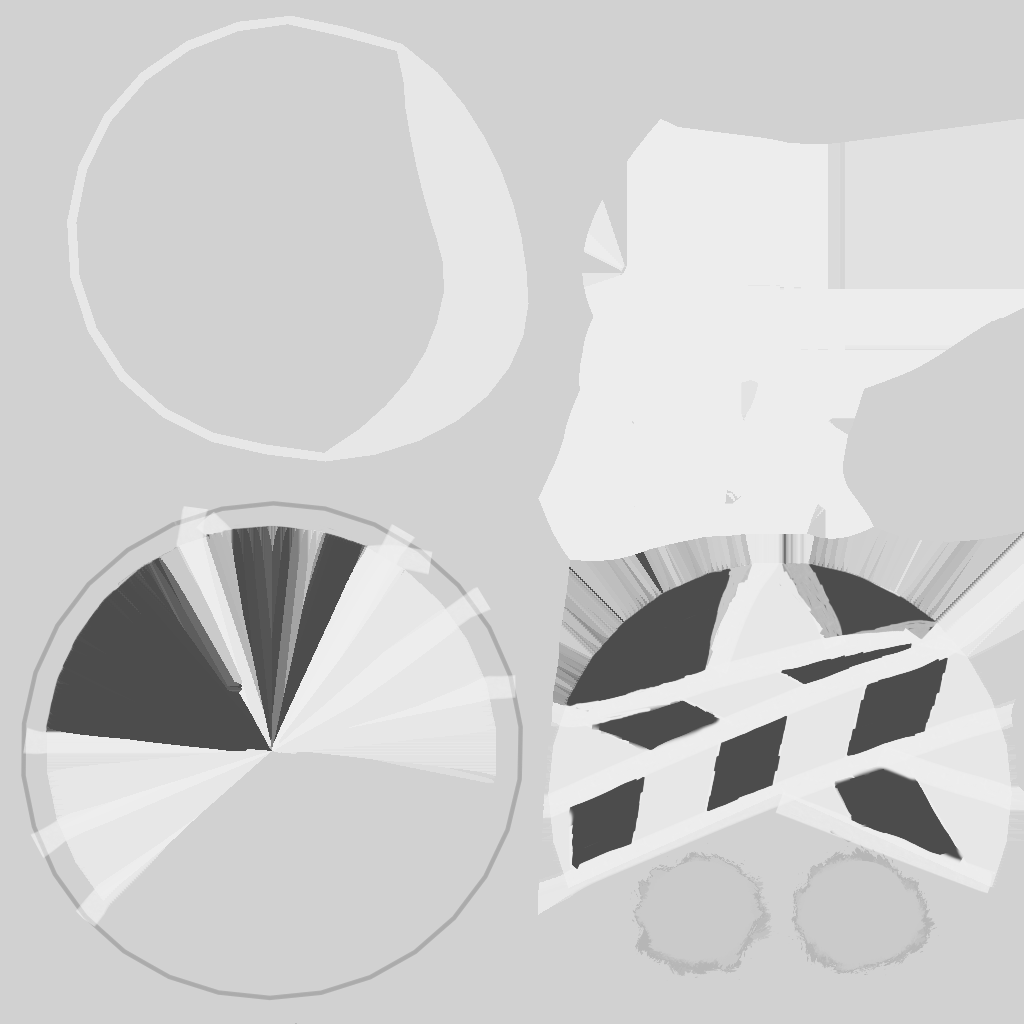
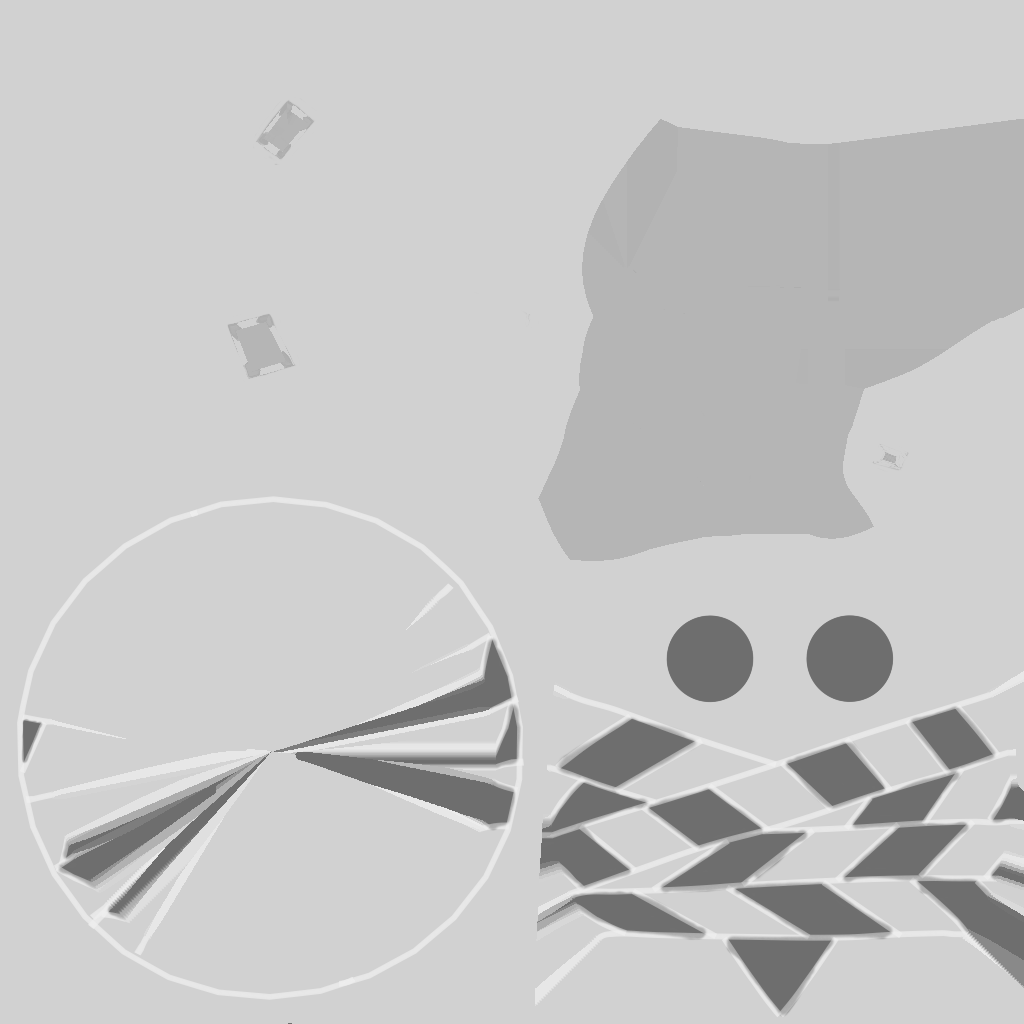
Bot maps updated new script added to manage bot materials
- Blue, red, green and yellow bot maps updated with new material
- New script added that checks the player and there position and then assigns appropriate bot mat to that position

diff --git a/Assets/botMaterialGet.cs b/Assets/botMaterialGet.cs
@@ -1,0 +1,36 @@
+using System.Collections;
+using System.Collections.Generic;
+using UnityEngine;
+
+public class botMaterialGet : MonoBehaviour
+{
+    private Client thisClient;
+    private MeshRenderer thisMeshRenderer;
+    private int listPos = 0;
+    // Start is called before the first frame update
+    void awake()
+    {
+        thisClient = GetComponentInParent<Client>();
+        thisMeshRenderer = GetComponent<MeshRenderer>();
+    }
+    void Start()
+    {
+        foreach(var client in GameManager.Instance.registeredClients)
+        {
+            if(client == thisClient)
+            {
+                thisMeshRenderer.materials = GameManager.Instance.BotMatRegistry(listPos);
+            }
+            else
+            {
+                listPos++;
+            }
+        }
+    }
+
+    // Update is called once per frame
+    void Update()
+    {
+        
+    }
+}
